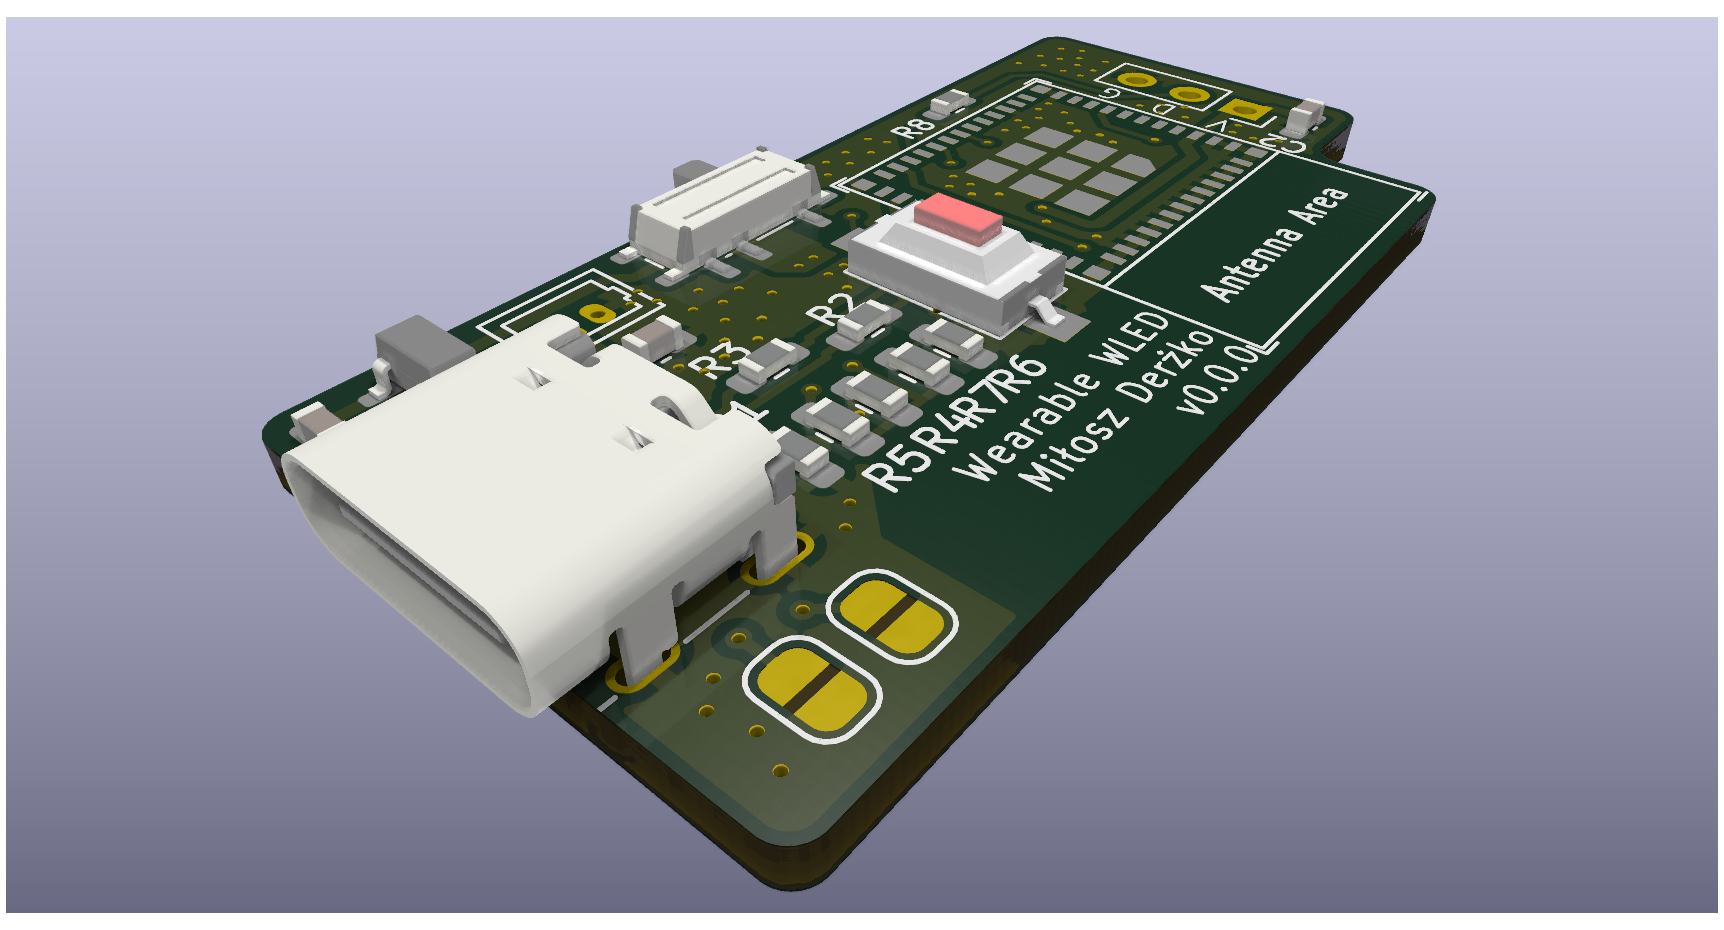
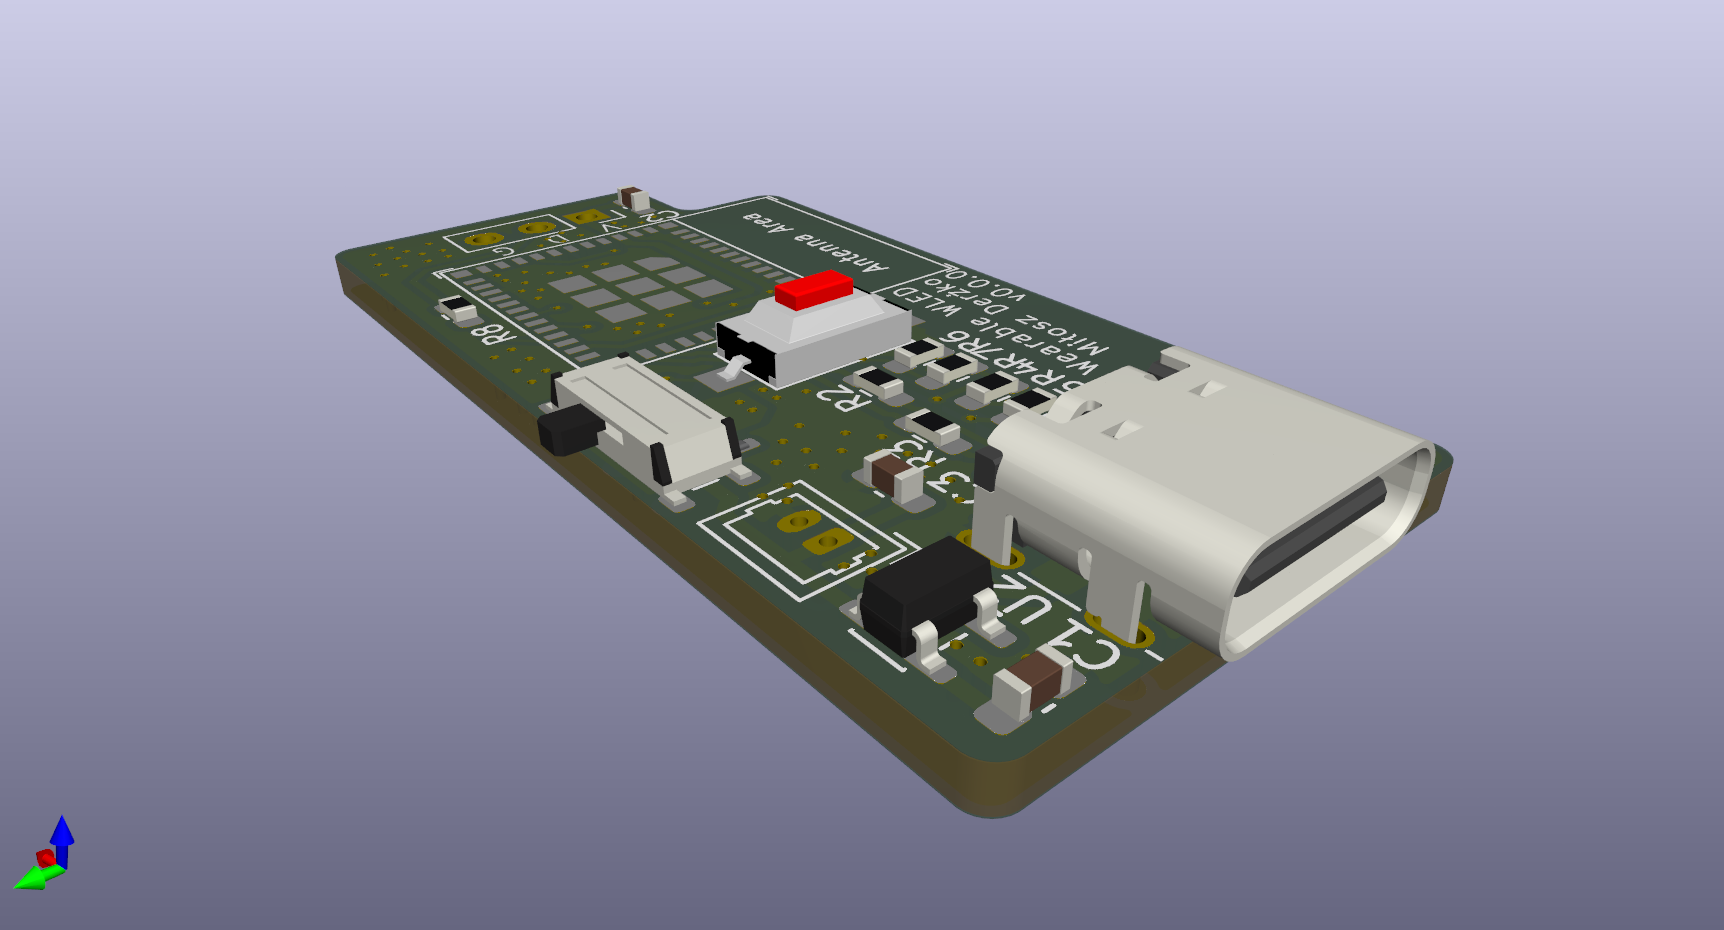
doc: Update images and readme

diff --git a/readme.md b/readme.md
@@ -4,3 +4,18 @@
 [← Back to main repository](https://github.com/MiCyg/WearableWLED.git)
 
 ---
+
+This PCB combines an ESP32‑C3 Mini with a battery charger, a power switch, and a USB‑C connector for power and programming. All components are low‑cost and readily available. The PCB measures 20×40 mm, allowing a compact enclosure and battery.
+
+
+<p align="center">
+	<img src="images/WearableWLEDTest2.gif" width="75%" />
+</p>
+
+
+<p align="center">
+	<img src="images/3dView.png" width="45%" />
+	<img src="images/3dViewUp.png" width="45%" />
+</p>
+
+
